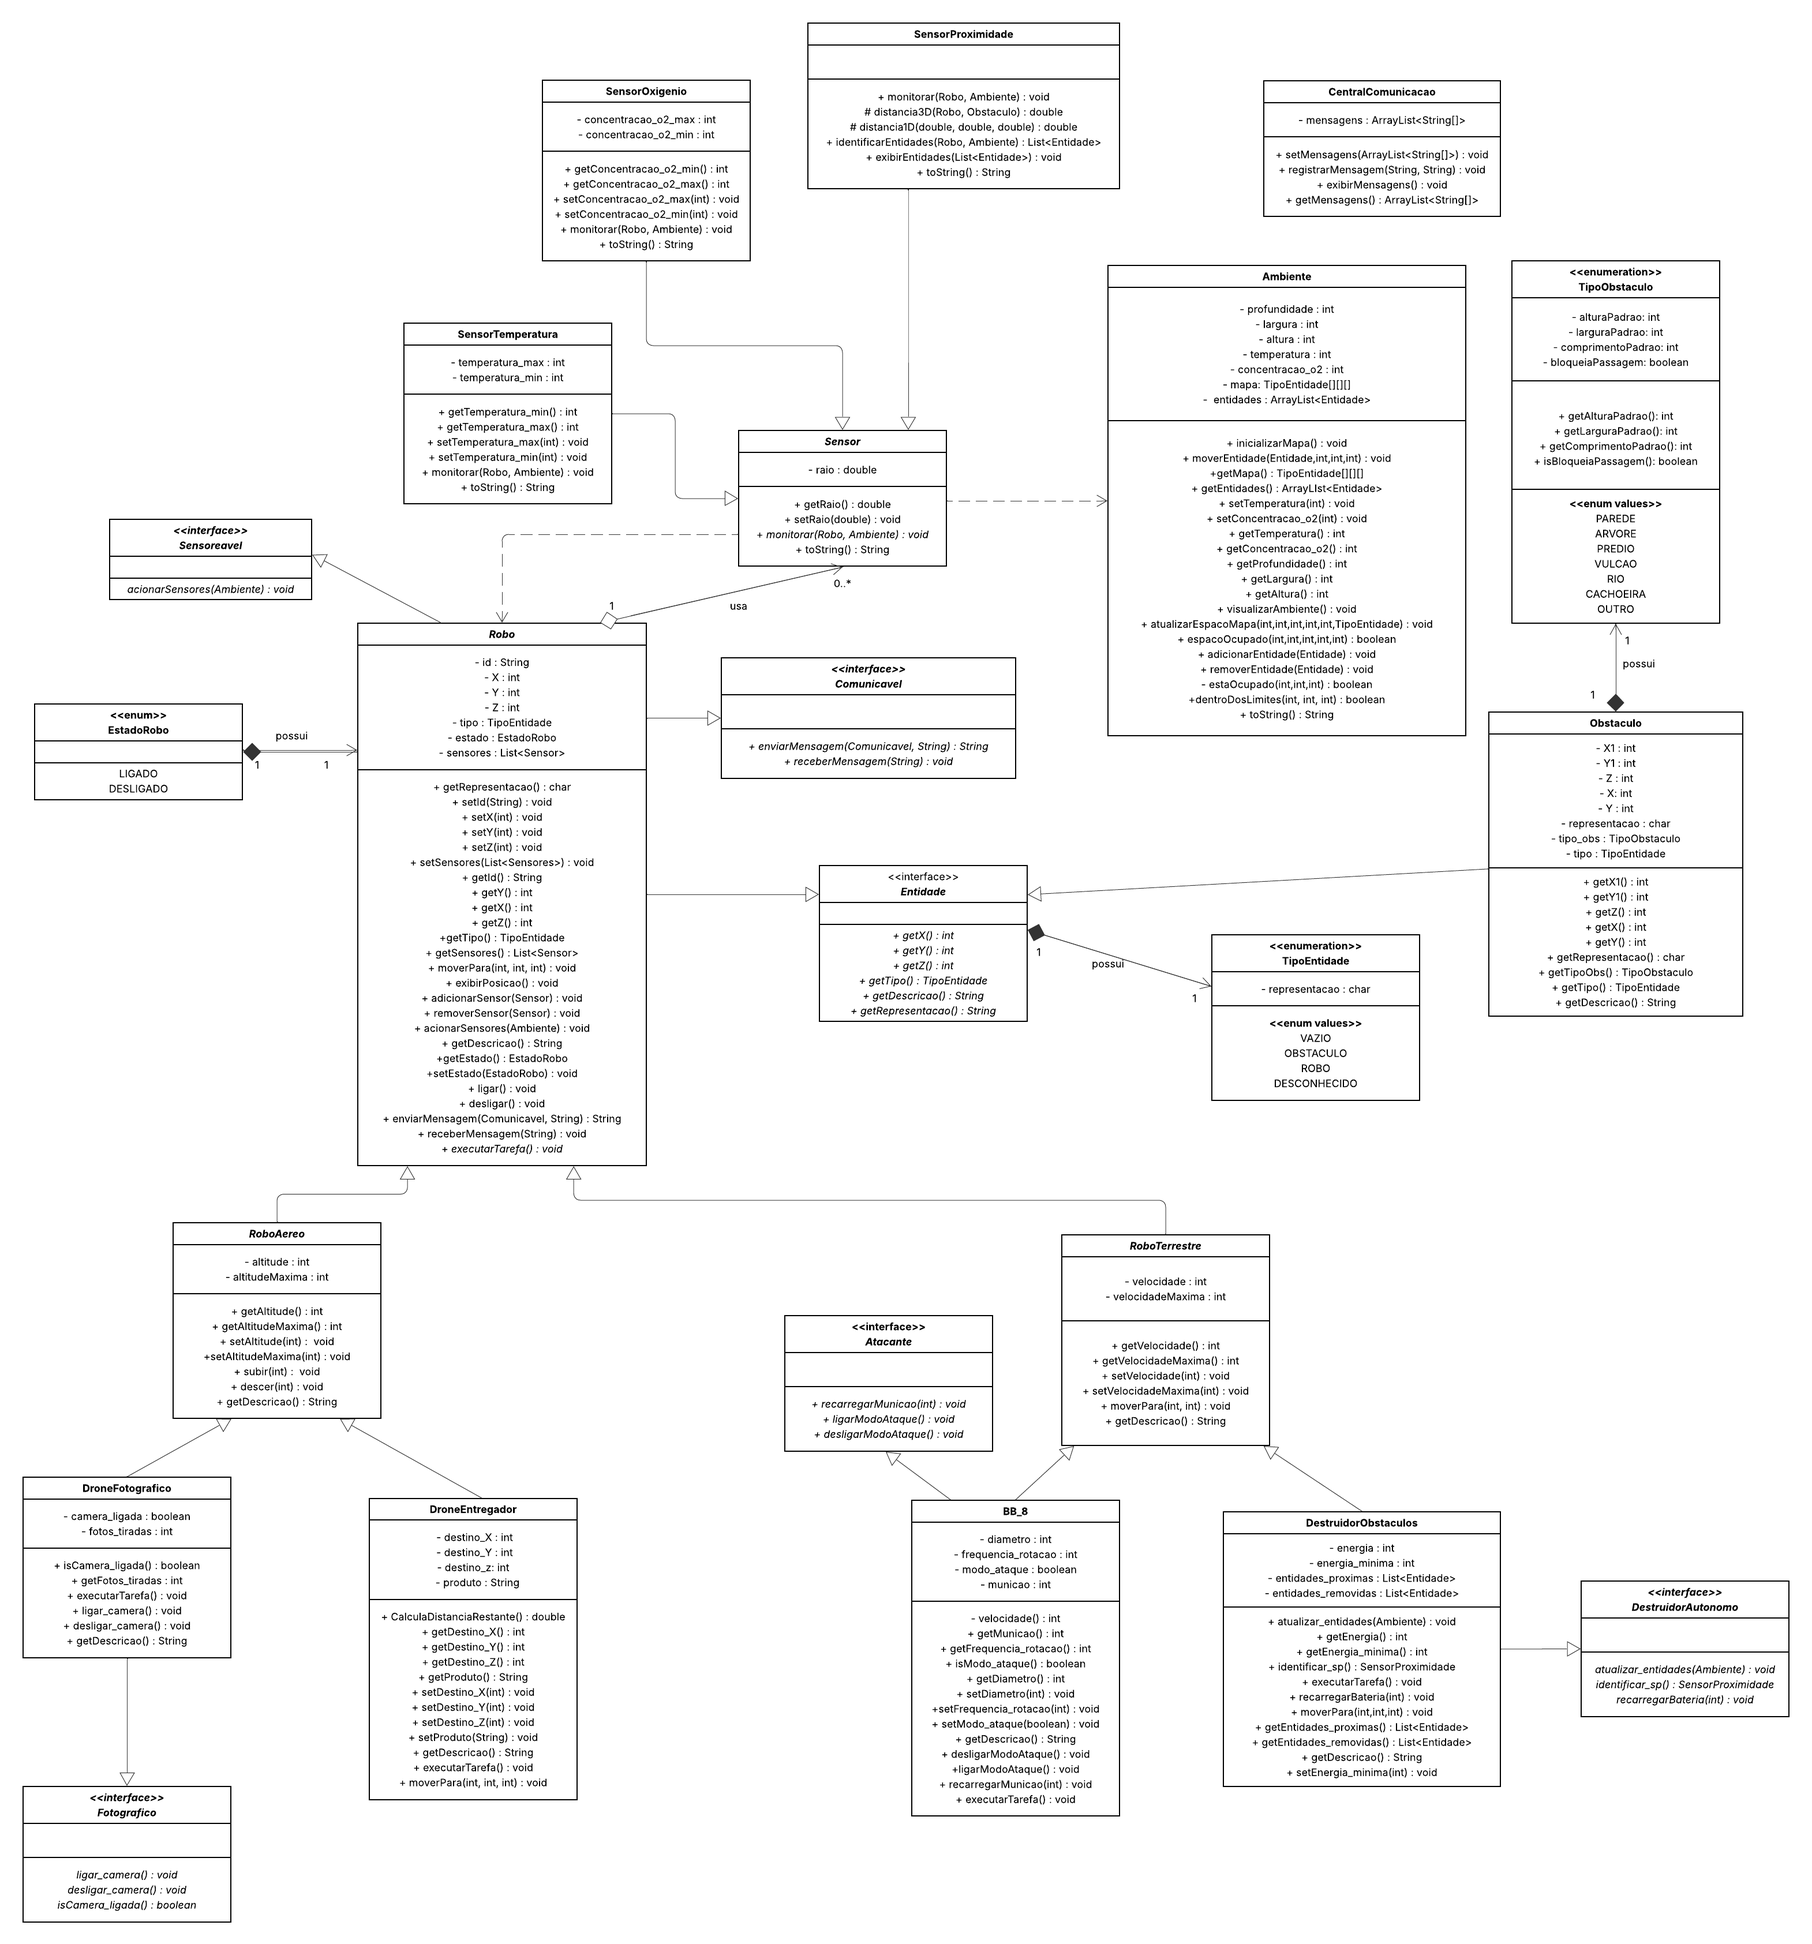
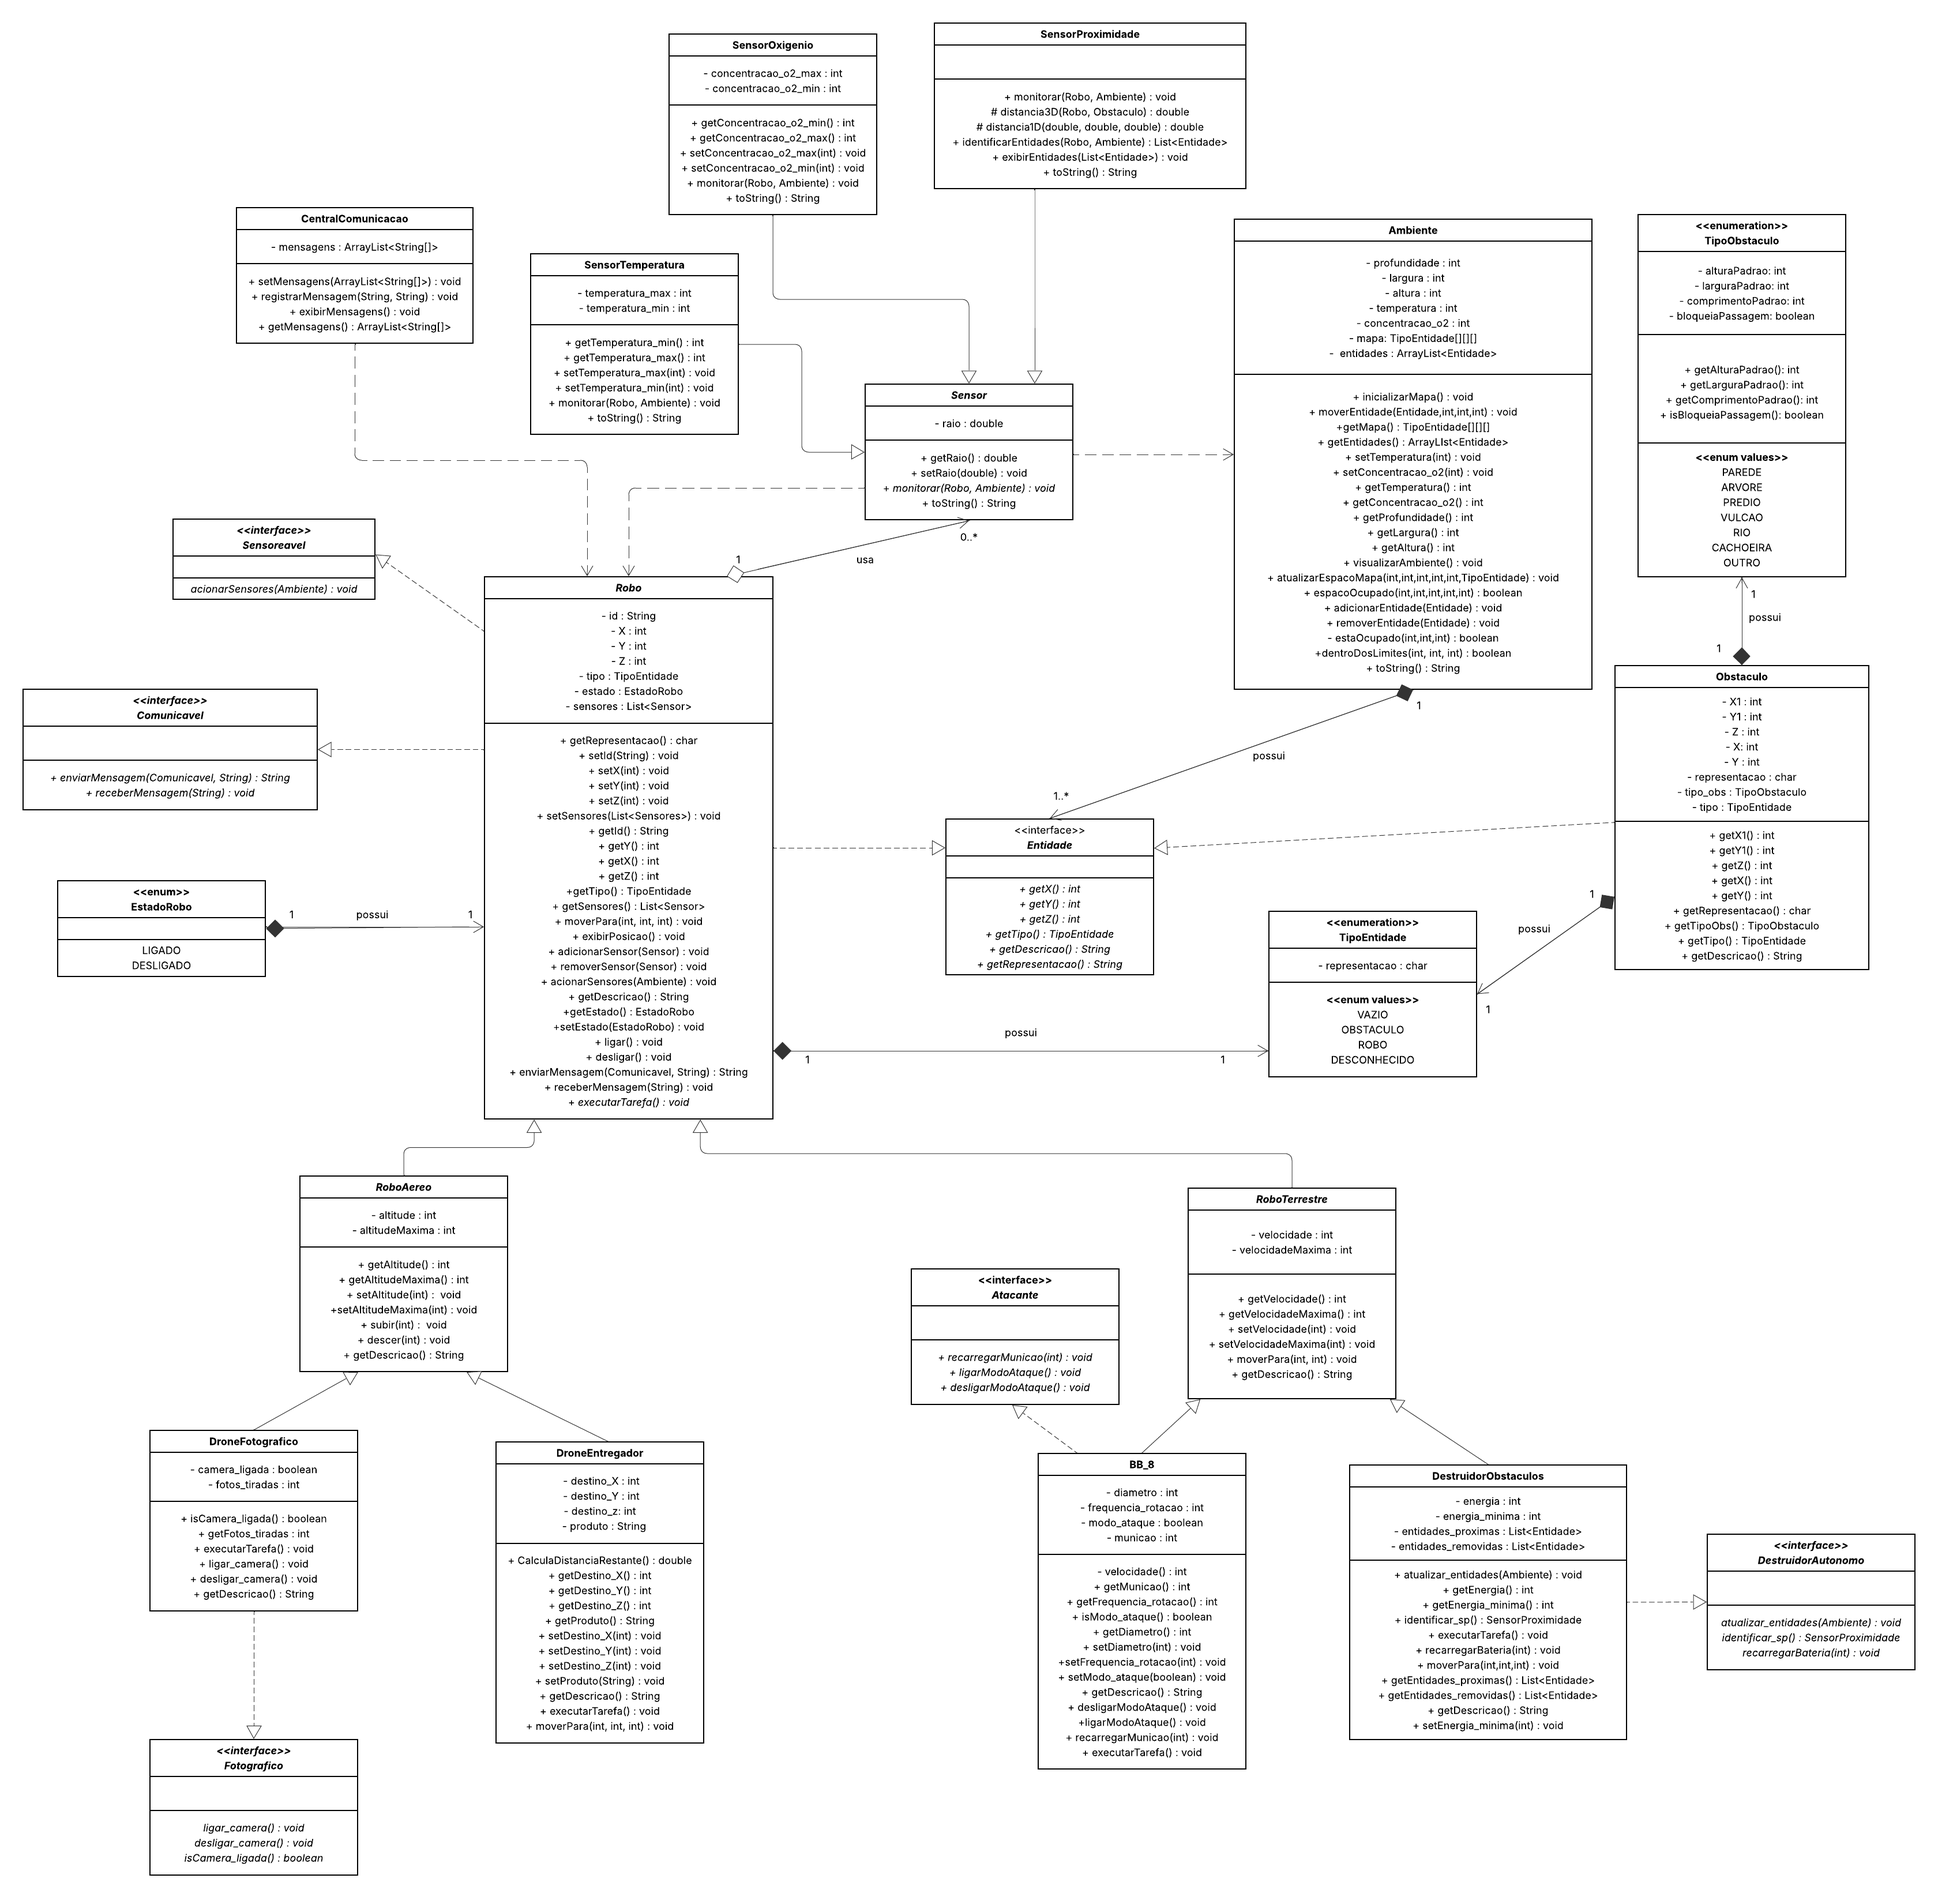
Diagrama atualizado + README do repositortio atualizado

diff --git a/README.md b/README.md
@@ -1,1 +1,72 @@
-# Este repositório conterá os códigos referentes aos laboratórios da disciplina MC322 (Programação orientada a objetos).
+#Laboratorios MC322
+Equipe: Thiago Gradvohl de Oiveira(RA: 281378) & Gabriel Lopes de Barros(RA: 281198)
+Este repositório conterá os códigos referentes aos laboratórios da disciplina MC322 (Programação orientada a objetos).
+
+-lab04:
+Prinicipais mudancas:
+    1) Adicionando interfaces (peremite uma especie de heranca multipla em Java):
+        -Entidade: implementada por Robo e Obstaculo;
+        -Comunicavel: implementada por Robo;
+        -Sensoreavel: implementada por Robo;
+        -Fotografico: implementada por DroneFotografico;
+        -Atcante: implementada por BB_8;
+        -DestruidorAutonomo: implementada por DestruidorObstaculos;
+    2) Implementando Exceptions personalizadas;
+    3) Robo, RoboTerrestre e RoboAereo sao classes abstratas (metodo executarTarefa())
+    4) Visualizacao do Ambiente com mapa
+    5) Comunicacao entre Robos -> CentralComunicacao + Comunicavel
+
+Explicando o Diagrama UML (PNG na pasta lab04 do repositorio):
+    1) Heranca: 
+        -RoboTerrestre e RoboAereo herdam de Robo
+        -BB_8 e DestruidorObstaculos herdam de RoboTerrestre 
+        -DroneEntregador e DroneFotografico herdam de RoboAereo
+        -SensorTemperatura, SensorProximidade e SensorOxigenio herdam de Sensor
+    2) Dependencia:
+        -Sensor depende de Robo e de Ambiente
+        -CentralComunicacao depende de Robo
+    3) Composicao:
+        -Ambiente contem Entidade (1 para 1..*)
+        -Obstaculo contem TipoObstaculo (1 para 1)
+        -Obstaculo e Robo contem TipoEntidade (1 para 1)
+        -Robo contem EstadoRobo (1 para 1)
+    4) Agregacao:
+        -Robos podem ter Sensor (1 para 0..*)
+    5) Implementacao:
+        -Robo e Obstaculo implementam Entidade
+        -Robo implementa Sensoreavel e Comunicavel
+        -BB_8 implementa Atacante
+        -DroneFotografico implementa Fotografico
+        -DestruidorObstaculso implementa DestruidorAutonomo
+                      
+Exceptions adicionadas:
+    1) BateriaInsuficienteException: lançada quando DestruidorObstaculo tenta realizar acao (moverPara() e executarTarefa()) sem ter enegia maior que a minima;
+    2) CameraDesligadaException: lançada quando DroneFotografico tenta tirar foto (executarTarefa()) sem estar com a camera ligada;
+    3) ColisaoException: lançada na classe Ambiente quando tentamos mover ou adicionar Entidade em espaco ocupado;
+    4) EntidadeEstaticaException: lançada quando se tenta mover a Entidade Obstaculo na classe Ambiente;
+    5) ForaDosLimitesException: lançada quando tenta-se adicionar ou mover Entidade para fora dos limites na classe Ambiente;
+    6) RoboDesligadoException: lançada quando tenta-se mover, acionarSensores ou executarTarefa com EstadoRobo DESLIGADO na classe Robo ou Ambiente;
+
+Instrucoes para Compilacao e Execucao:
+    1) Clonando o repositorio na sua máquina:
+        git clone https://github.com/thiagogradvohl/Thiago_Gabriel-MC322.git
+
+    2) Acesse a pasta lab04 do repositório
+        cd Thiago_Gabriel-MC322/lab04
+
+    3) Compile e execute o arquivo Main.java
+        3.1) Usando uma IDE (como IntelliJ IDEA, Eclipse, NetBeans, VsCode)
+            Importe a pasta lab04 como um novo projeto ou módulo;
+            Localize o arquivo Main.java;
+            Clique com o botão direito e selecione "Run" ou "Executar".
+        3.2) Pelo Terminal:
+            Certifique-se de ter o Java Development Kit (JDK) instalado.
+            Verifique com:
+                java -version
+                javac -version
+            
+            Compile o arquivo Main.java:
+                javac Main.java
+            
+            Execute o programa:
+                java Main
